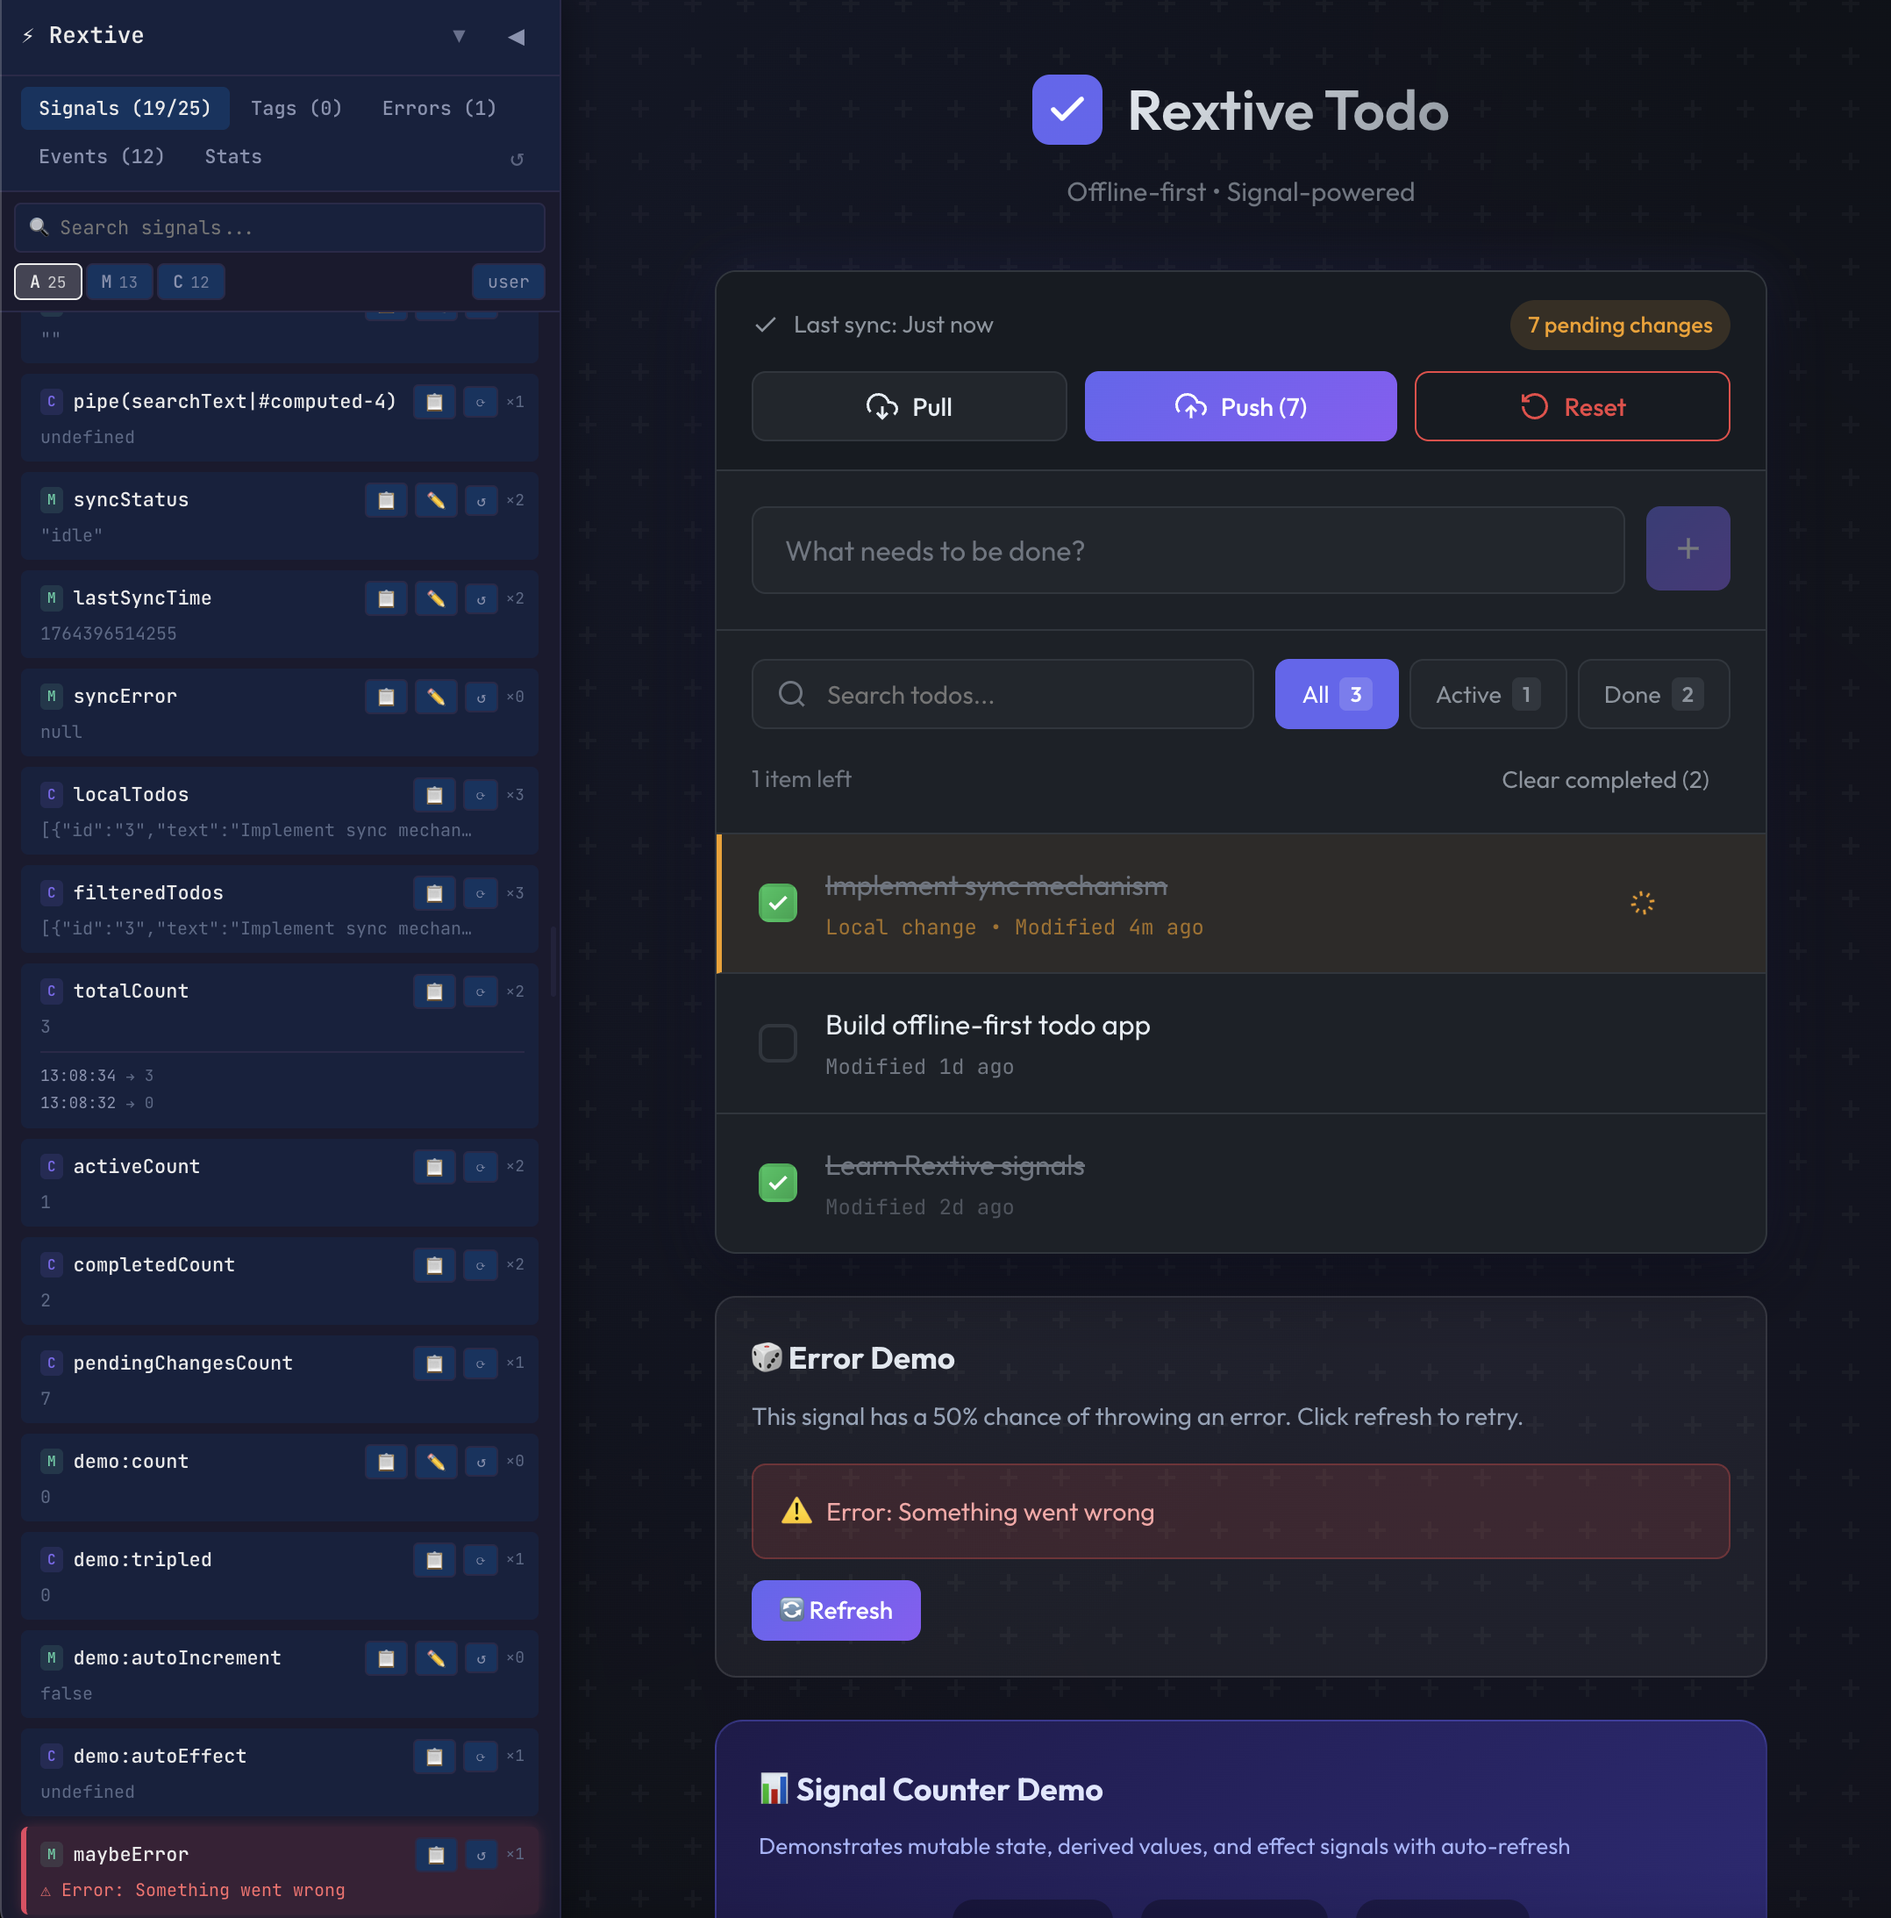
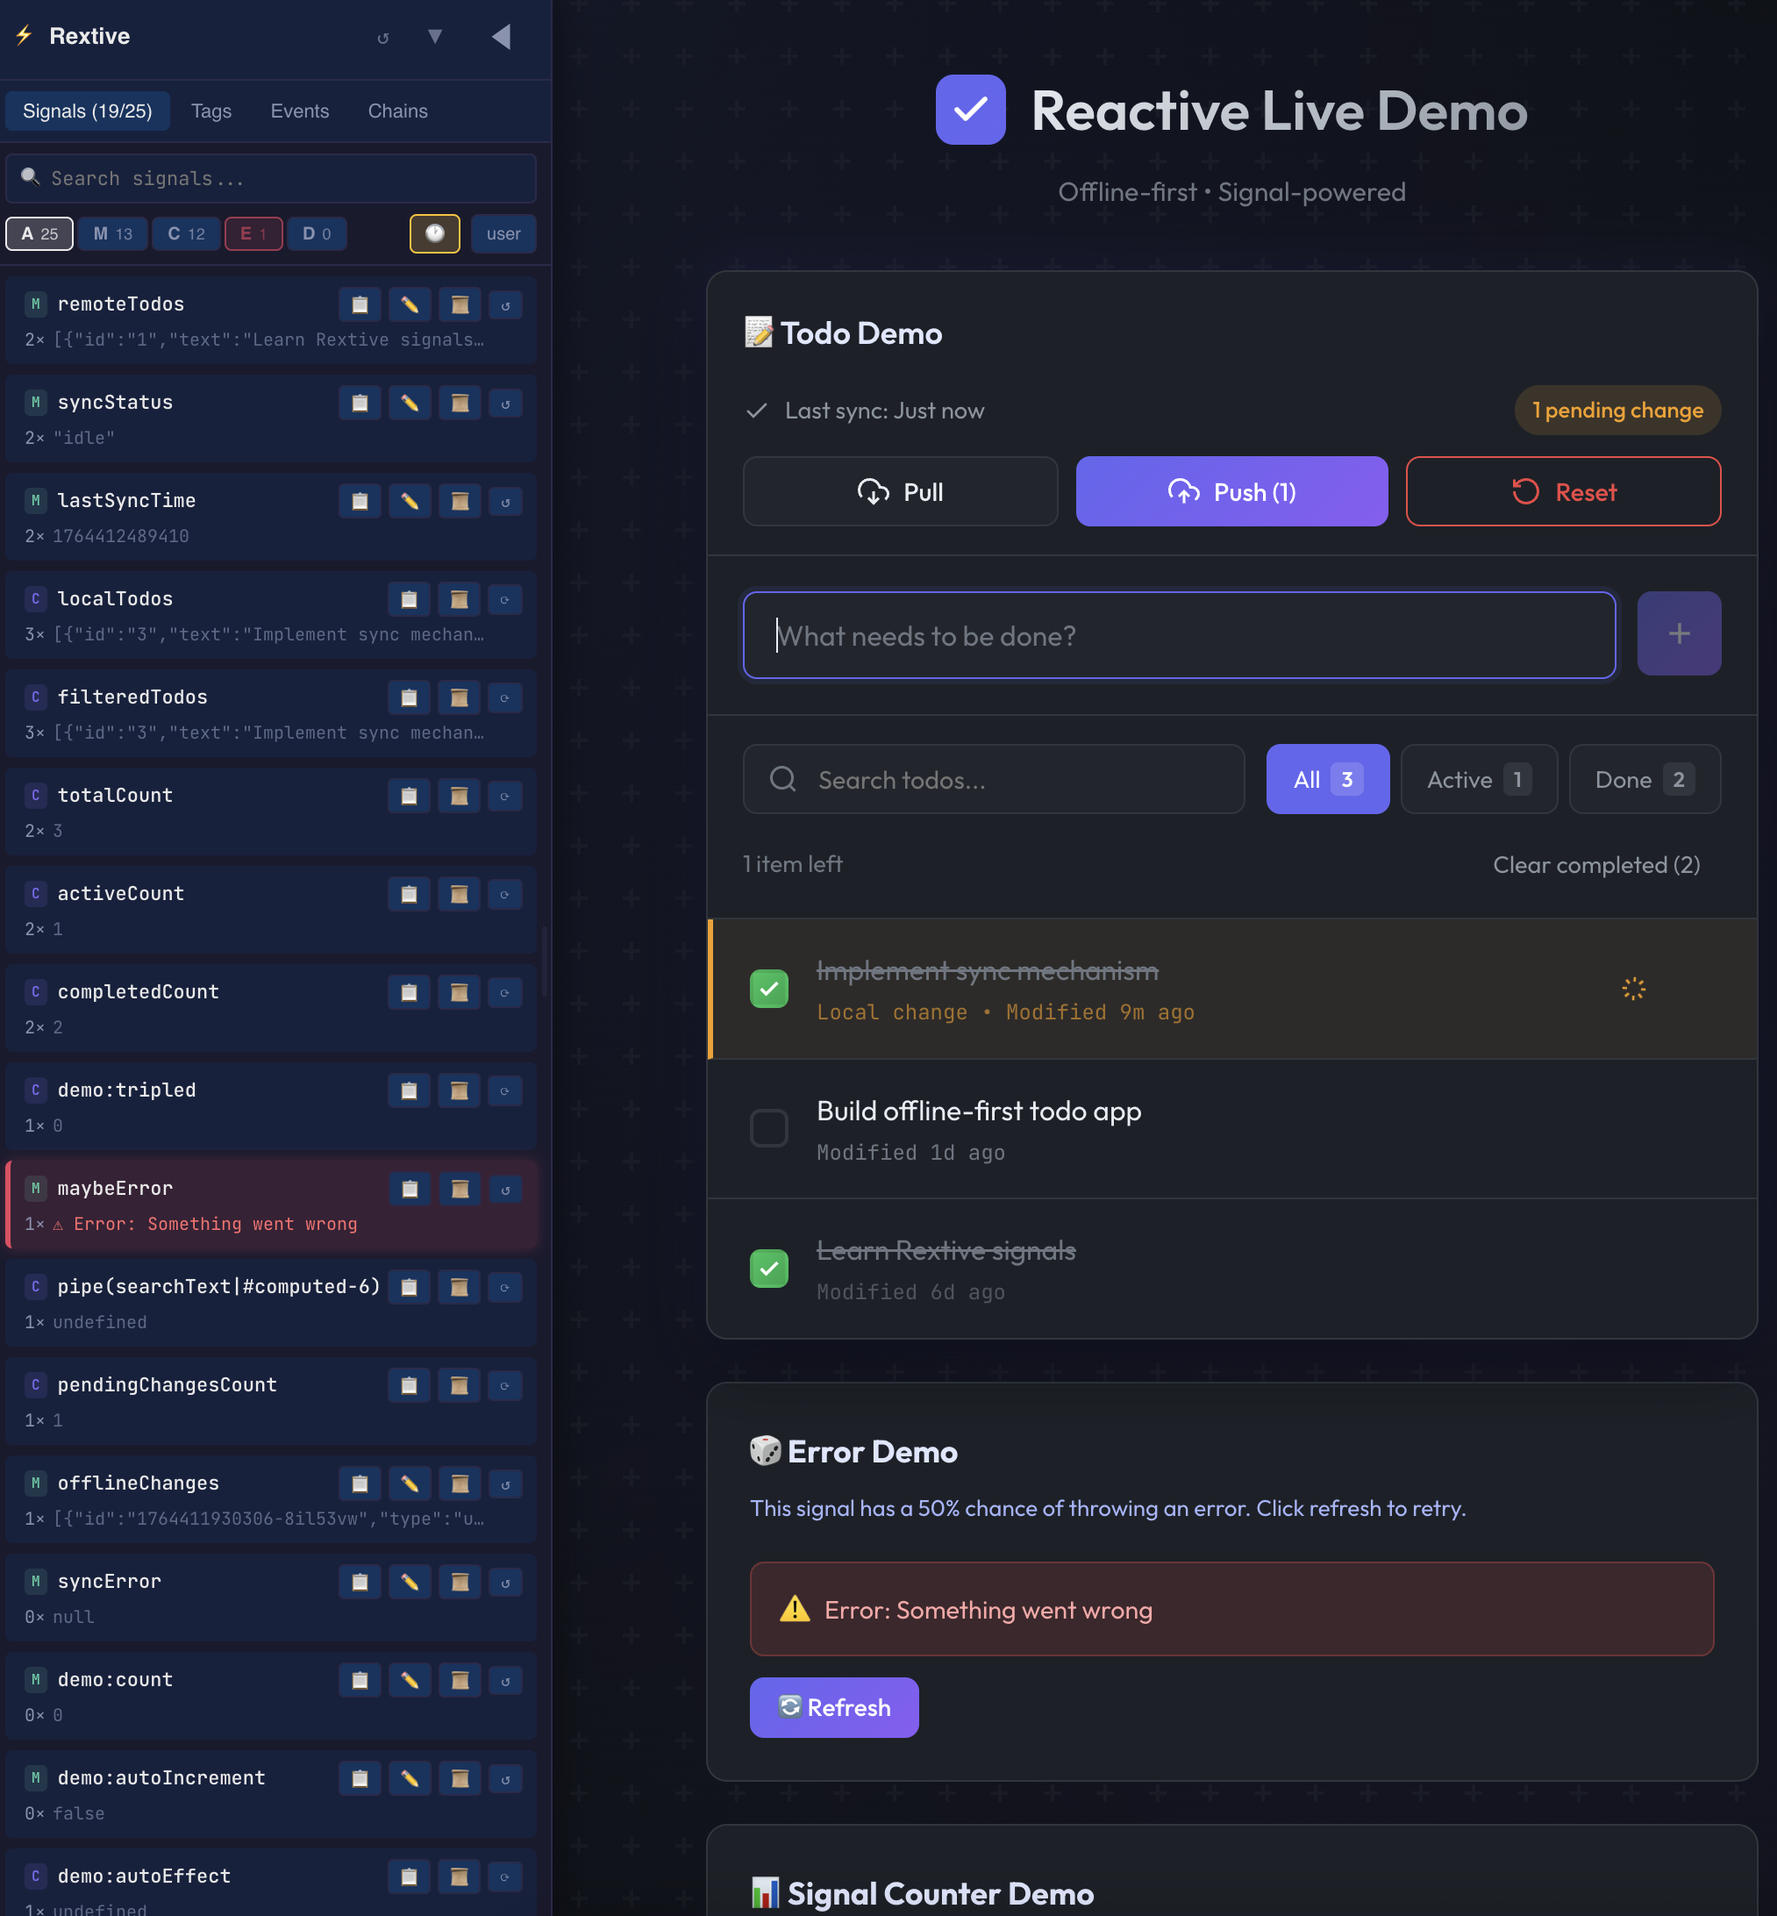
refactor: enhance devtools

diff --git a/packages/rextive-todo/src/App.css b/packages/rextive-todo/src/App.css
@@ -165,6 +165,14 @@ input {
   animation: fadeInUp 0.6s ease 0.1s both;
 }
 
+.todo-card-title {
+  margin: 0;
+  padding: 20px 20px 0;
+  color: #e0e7ff;
+  font-size: 18px;
+  font-weight: 600;
+}
+
 @keyframes fadeInUp {
   from {
     opacity: 0;
@@ -181,7 +189,6 @@ input {
 ======================================== */
 .sync-controls {
   padding: 16px 20px;
-  background: var(--bg-secondary);
   border-bottom: 1px solid var(--border-color);
   display: flex;
   flex-direction: column;

diff --git a/packages/rextive-todo/src/App.tsx b/packages/rextive-todo/src/App.tsx
@@ -41,12 +41,13 @@ export function App() {
                 </linearGradient>
               </defs>
             </svg>
-            <h1>Rextive Todo</h1>
+            <h1>Reactive Live Demo</h1>
           </div>
           <span className="subtitle">Offline-first • Signal-powered</span>
         </header>
 
         <div className="todo-card">
+          <h3 className="todo-card-title">📝 Todo Demo</h3>
           <SyncControls />
           <TodoInput />
           <TodoFilters />
